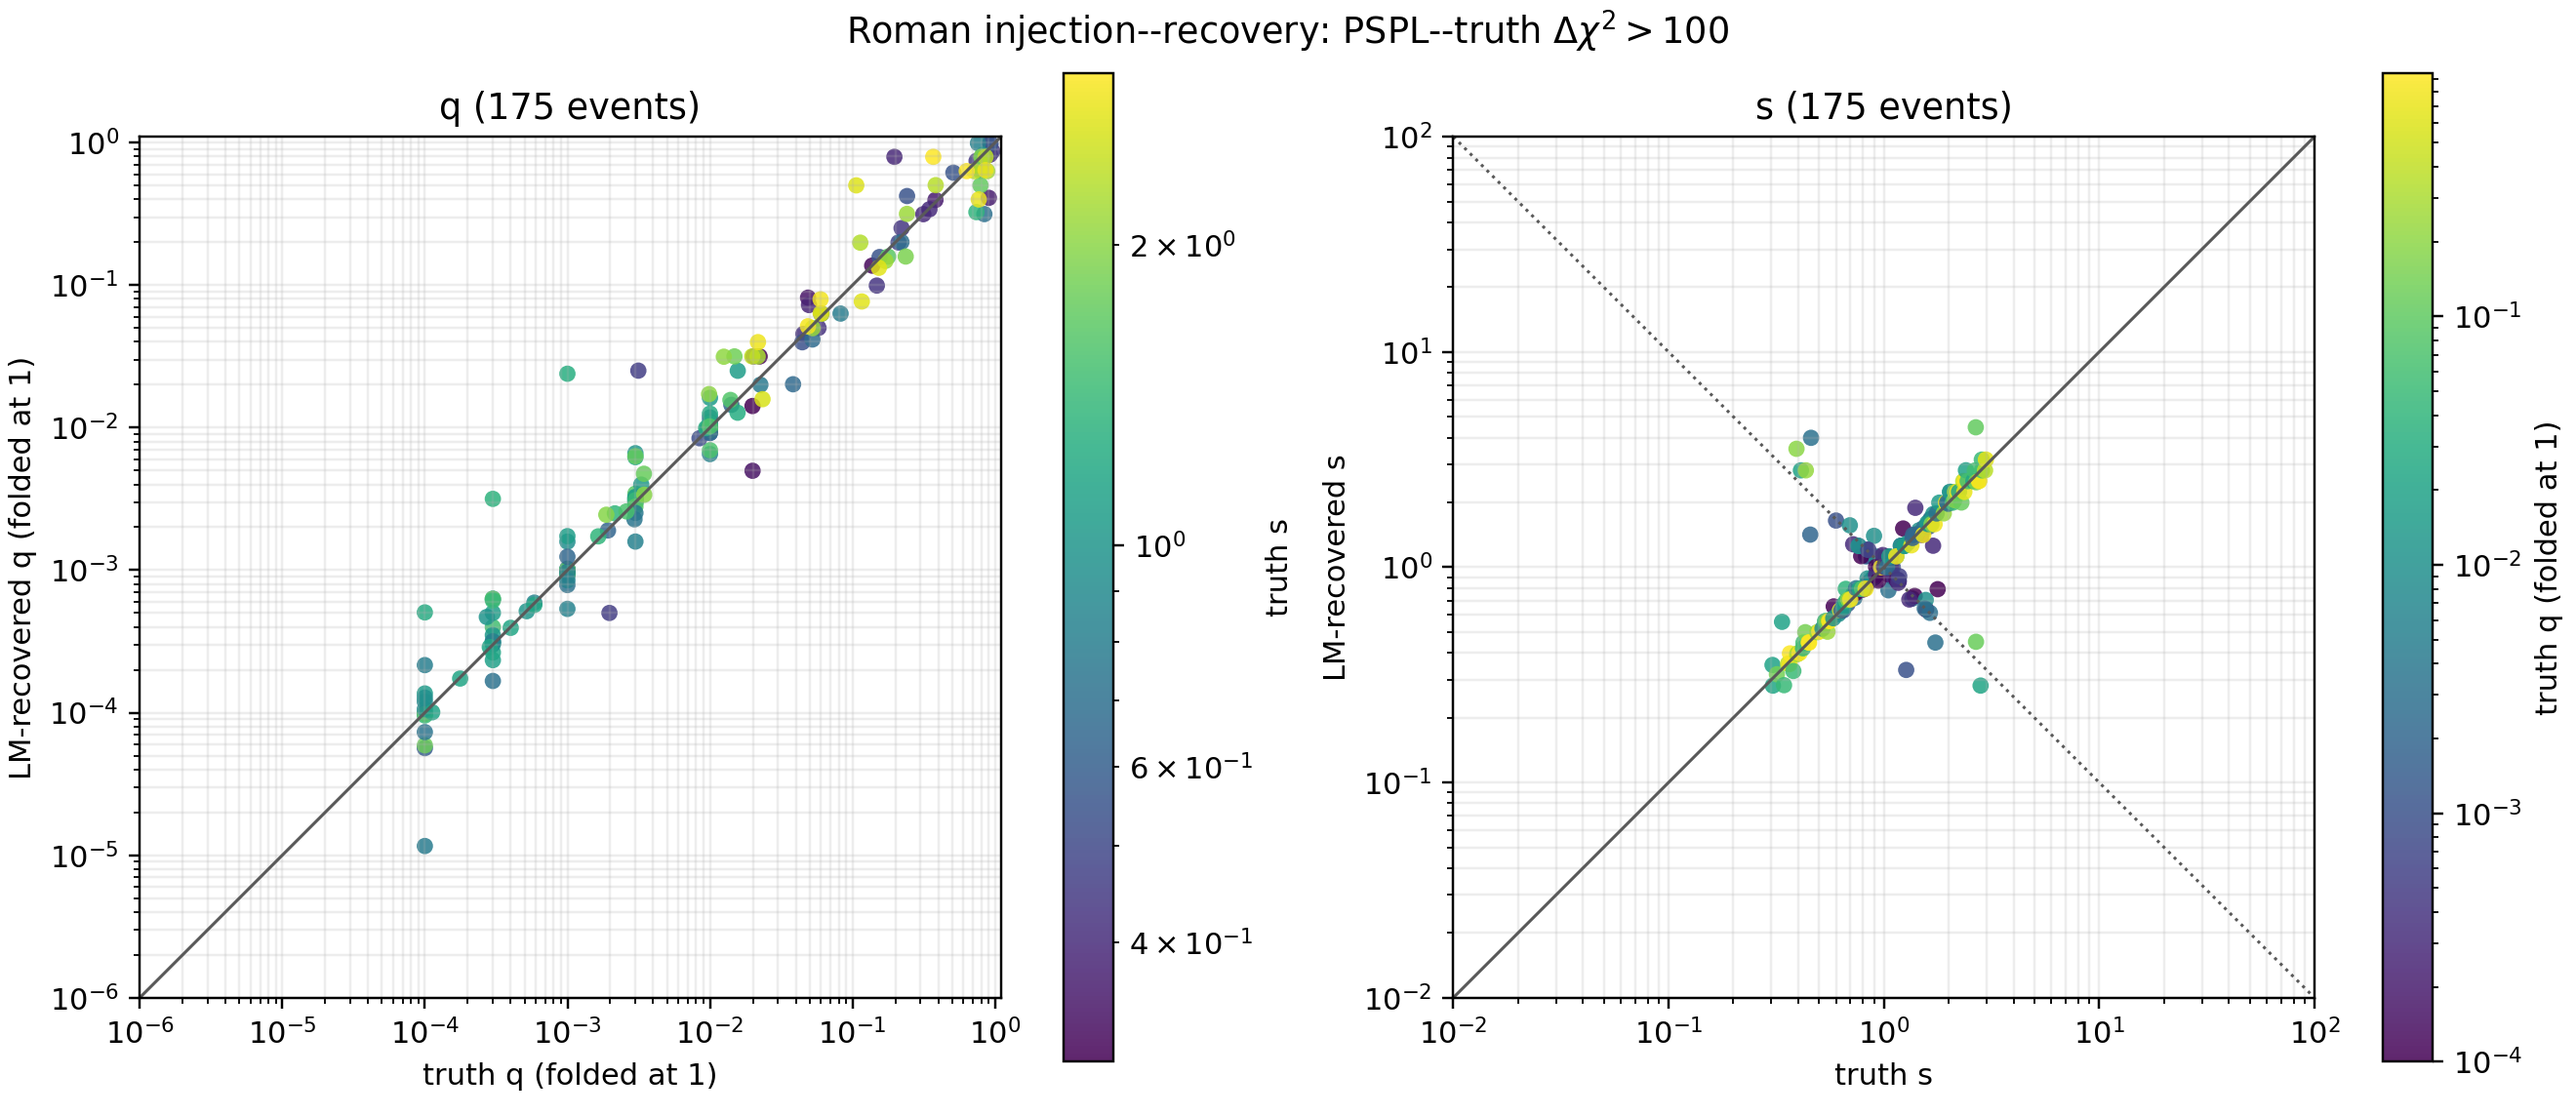
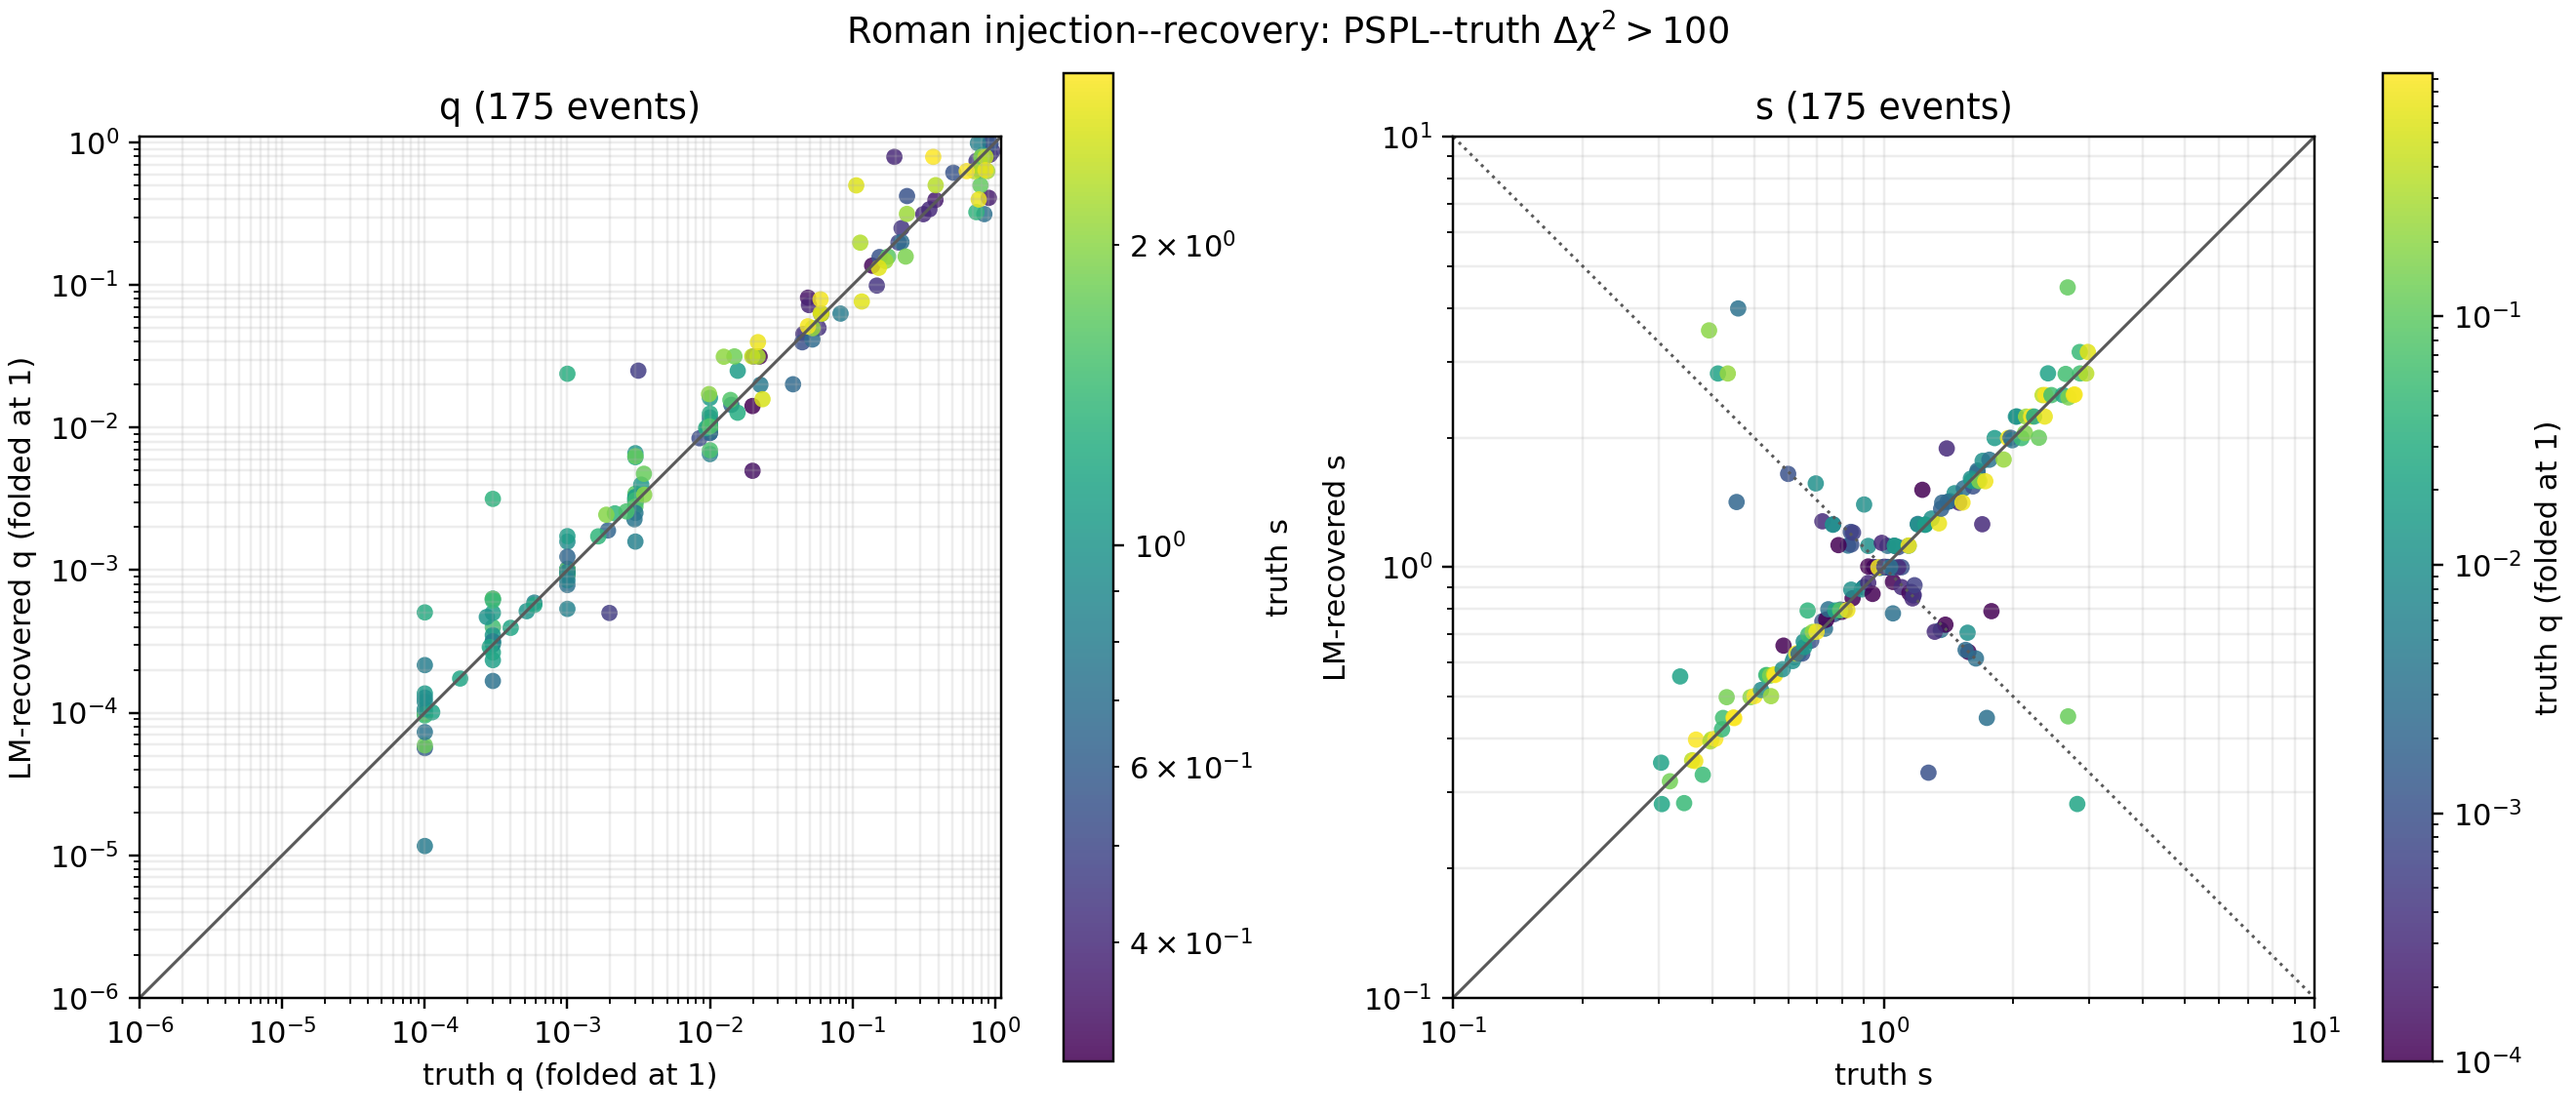
Tighten separation axis range

diff --git a/scripts/plot-roman-lm-q-s.py b/scripts/plot-roman-lm-q-s.py
@@ -44,14 +44,14 @@ def _parse_args() -> argparse.Namespace:
     parser.add_argument(
         "--s-min",
         type=float,
-        default=1.0e-2,
-        help="lower display limit for both s axes (default: 1e-2)",
+        default=1.0e-1,
+        help="lower display limit for both s axes (default: 1e-1)",
     )
     parser.add_argument(
         "--s-max",
         type=float,
-        default=1.0e2,
-        help="upper display limit for both s axes (default: 1e2)",
+        default=1.0e1,
+        help="upper display limit for both s axes (default: 1e1)",
     )
     return parser.parse_args()
 
